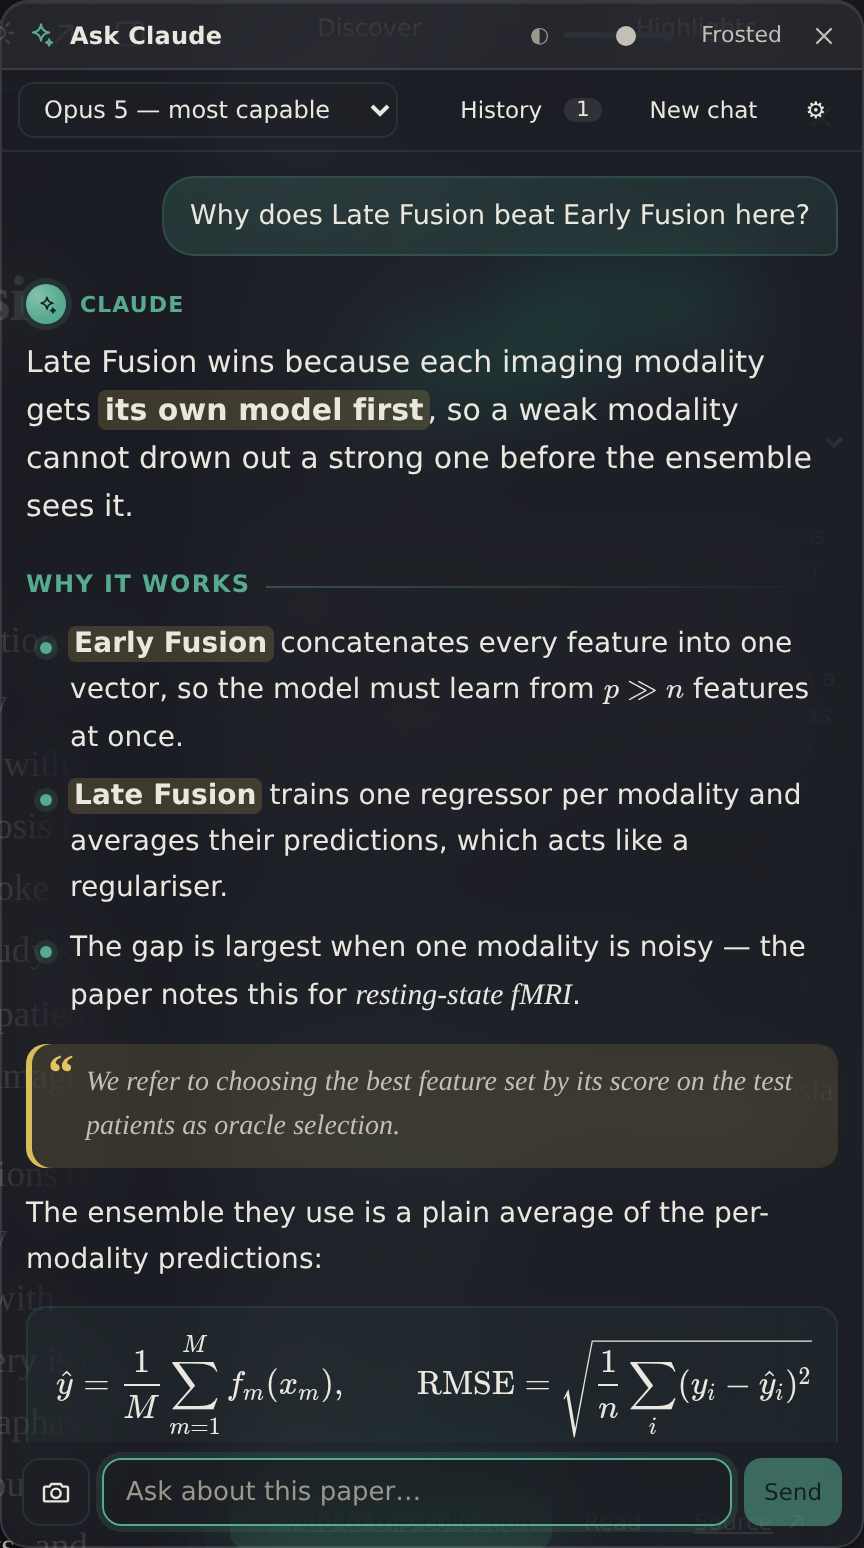
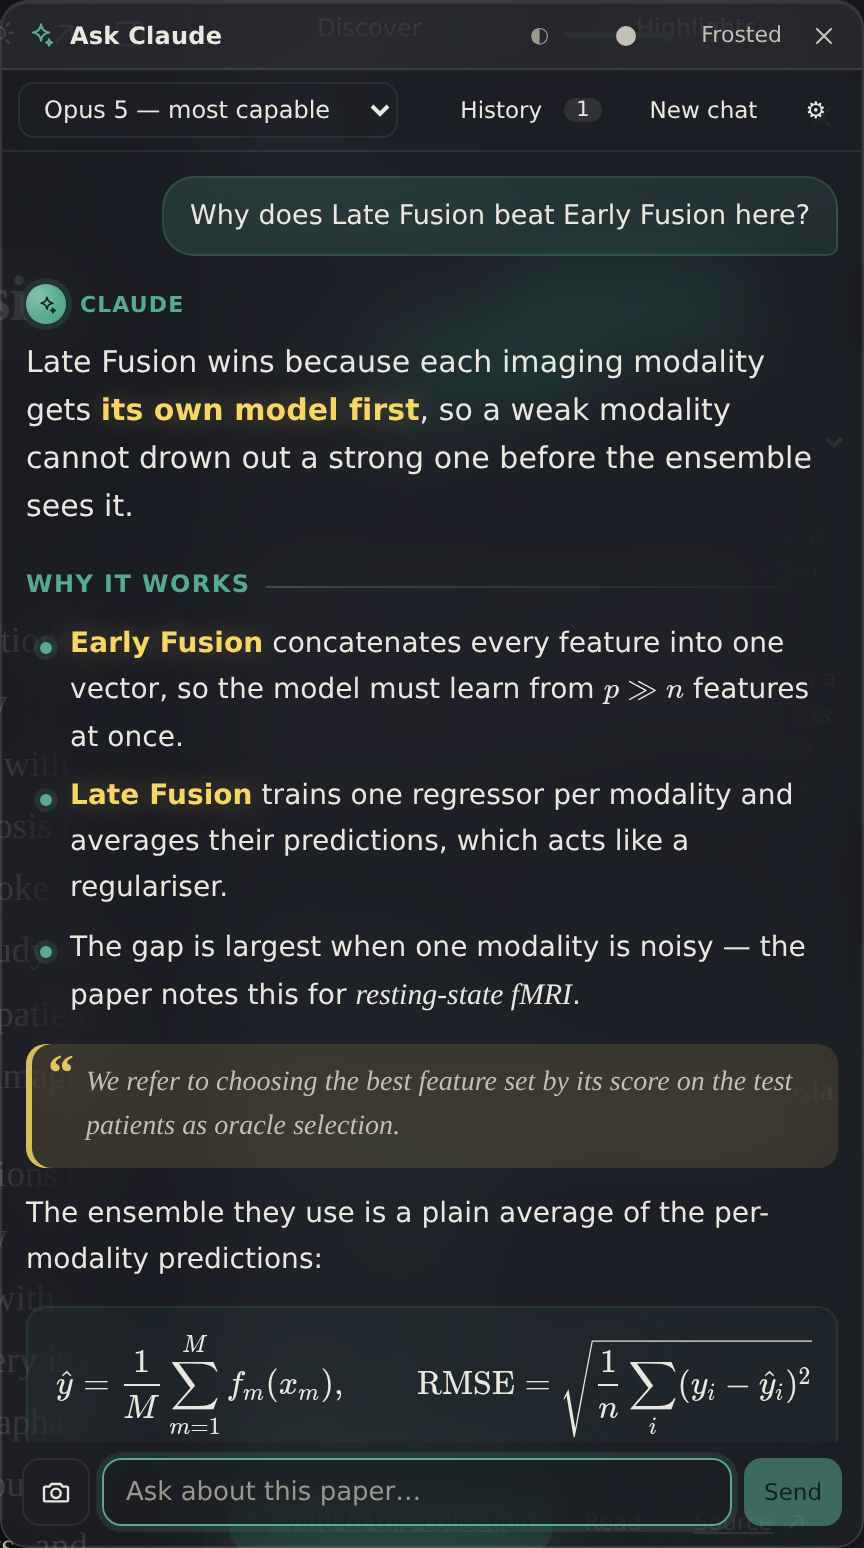
Ask Claude: in dark, marked words glow rather than sit on a fill
In the dark theme a yellow fill behind bold text and passage links went
muddy. Of five tries (fill, glow, underline, green tint, outlined chip) the
glow read best: the words themselves in the marker's warm yellow with a
soft glow, and a passage link with a dashed underline and its number, so it
still reads as something to press. The light theme keeps its marker fill.

Claude-Session: https://claude.ai/code/session_01JRvxerTSNWCdTXjyRBgBbC

Changed region(s): [[0.0625, 0.4961, 0.9375, 0.5271], [0.0625, 0.4031, 0.9062, 0.4341], [0.0938, 0.2481, 0.8438, 0.2791]]

diff --git a/src/styles.css b/src/styles.css
@@ -3012,8 +3012,13 @@ body.win-moving .assistant-win { transition: none; }
 :root[data-theme='dark'] .look-marker .passage-band {
   mix-blend-mode: normal; background: rgb(var(--mark) / 0.2); box-shadow: inset 0 -2px 0 rgb(var(--mark) / 0.75);
 }
-:root[data-theme='dark'] .chat-passage { background: rgb(var(--mark) / 0.2); }
-:root[data-theme='dark'] .chat-passage:hover { background: rgb(var(--mark) / 0.32); }
+/* In dark, a fill behind the letters goes muddy; the words glow instead. */
+:root[data-theme='dark'] .chat-claude .chat-text a.chat-passage {
+  padding: 0; margin: 0; border-radius: 0; background: none;
+  color: rgb(var(--mark)); text-shadow: 0 0 14px rgb(var(--mark) / 0.3);
+  border-bottom: 1.5px dashed rgb(var(--mark) / 0.55);
+}
+:root[data-theme='dark'] .chat-claude .chat-text a.chat-passage:hover { color: #fff3c4; border-bottom-style: solid; border-bottom-color: rgb(var(--mark)); }
 @keyframes marker-sweep { from { transform: scaleX(0); } }
 @keyframes marker-breathe { 50% { filter: saturate(1.4) brightness(1.03); } }
 
@@ -3125,7 +3130,10 @@ body.win-moving .assistant-win { transition: none; }
   background: rgb(var(--mark) / 0.3);
   -webkit-box-decoration-break: clone; box-decoration-break: clone;
 }
-:root[data-theme='dark'] .chat-claude .chat-text strong { background: rgb(var(--mark) / 0.16); }
+:root[data-theme='dark'] .chat-claude .chat-text strong {
+  padding: 0; margin: 0; background: none;
+  color: rgb(var(--mark)); text-shadow: 0 0 14px rgb(var(--mark) / 0.35);
+}
 /* A bold phrase inside a heading, a table head or a card is only bold. */
 .chat-claude .chat-text :is(h4, h5, h6, th) strong { background: none; padding: 0; margin: 0; }
 .chat-claude .chat-text em { font-family: var(--serif); font-size: 1.06em; }

diff --git a/README.md b/README.md
@@ -1683,7 +1683,8 @@ screen before it answers, so there is nothing to paste.
   `scripts/locate-smoke.mjs` tries each mode.
 - **How answers read**: the first paragraph (the answer itself) is set a
   size up, and the rest of the answer is styled for reading:
-  - bold reads as a highlighter stroke;
+  - bold reads as a highlighter stroke, and in the dark theme the words glow
+    a warm yellow instead, since a fill behind them goes muddy there;
   - headings are small accent signposts with a rule;
   - lists have accent dots and numbered discs;
   - text quoted from the paper is set as a serif quotation;
